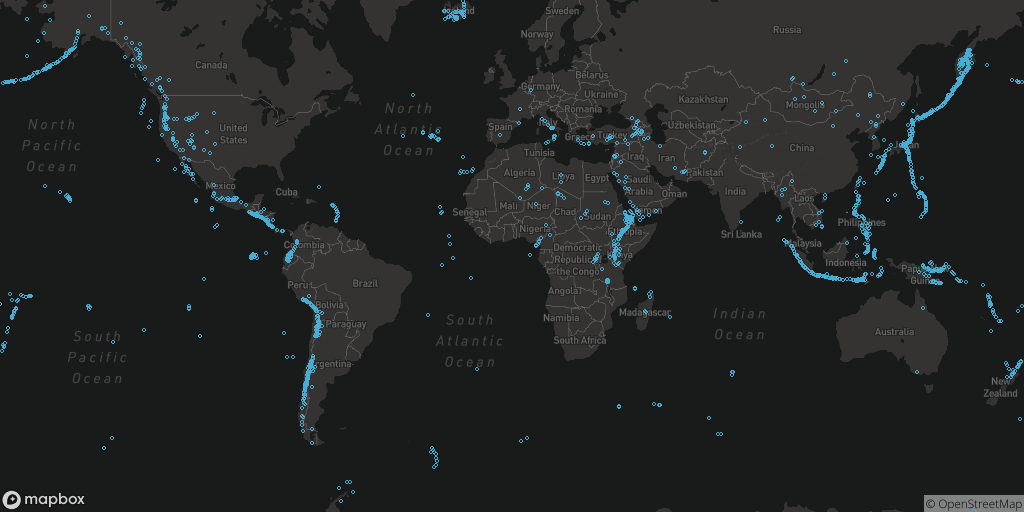
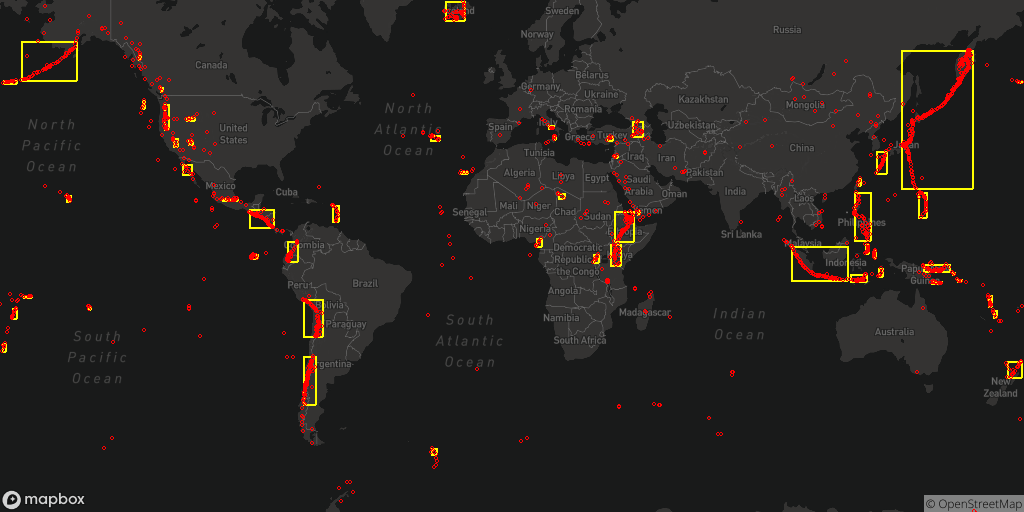
query3.py works, README updated

diff --git a/Assignments/program_5/query3.py b/Assignments/program_5/query3.py
@@ -12,6 +12,7 @@ background_colour = (255,255,255)
 black = (0,0,0)
 (width, height) = (1024, 512)
 color_list = {'volcanos':(255,0,0),'earthquakes':(70,173,212),'meteorites':(76,187,23)}
+box_color = (255,255,0)
 
 #run db query for next airport within the r
 #find all vol as red, eq as blue, meteor as green
@@ -26,8 +27,8 @@ pygame.display.flip()
 
 #separate sys.argv
 feature = sys.argv[1]
-min_pts = sys.argv[2]
-eps = sys.argv[3]
+min_pts = float(sys.argv[2])
+eps = float(sys.argv[3])
 
 mh = mongoHelper()
 
@@ -42,8 +43,6 @@ points = adjust_location_coords(extremes,points,width,height)
 
 mbrs = calculate_mbrs(points, eps, min_pts)
 
-print(mbrs)
-
 running = True
 while running:
     screen.blit(bg, (0, 0))
@@ -54,10 +53,10 @@ while running:
             running = False
       
     for mbr in mbrs:
-         pygame.draw.polygon(screen, black, mbr, 2)
+         pygame.draw.polygon(screen, box_color, mbr, 2)
          pygame.display.flip()
     for pt in points:
-        pygame.draw.circle(screen, (70,173,212), pt, 2,1)
+        pygame.draw.circle(screen, color_list[feature], pt, 2,1)
         pygame.display.flip()
     pygame.image.save(screen, DIRPATH+'/query3.png')
 

diff --git a/Assignments/program_5/dbscan.py b/Assignments/program_5/dbscan.py
@@ -225,6 +225,7 @@ def calculate_mbrs(points, epsilon, min_pts):
     """
     mbrs = []
     clusters =  dbscan(points, epsilon, min_pts)
+    
 
     """
     Traditional dictionary iteration to populate mbr list

diff --git a/Assignments/program_5/README.md b/Assignments/program_5/README.md
@@ -20,3 +20,15 @@
   - `python query2.py`
 ##### Other:
 - query2.png is a picture of the map after all points have been plotted. It is overwritten each time any of these are run. 
+
+# query3 : Clustering - Examples/Usage
+###### `python query3.py [feature] [min_pts] [eps]`
+  - `[feature]` must be: 'earthquakes', 'meteorites' or 'volcanos'. Anything else will not work.
+  - `[min_pts]` minimum number of points to make a cluster
+  - `[eps]` distance for dbscan
+  - `python query3.py earthquakes 3 5`
+  - `python query3.py volcanos 3 5`
+  - `python query3.py meteorites 3 5`
+##### Other:
+- query3.png is a picture of the map after all points have been plotted. It is overwritten each time this is run. 
+- May produce more than 5 clusters.
